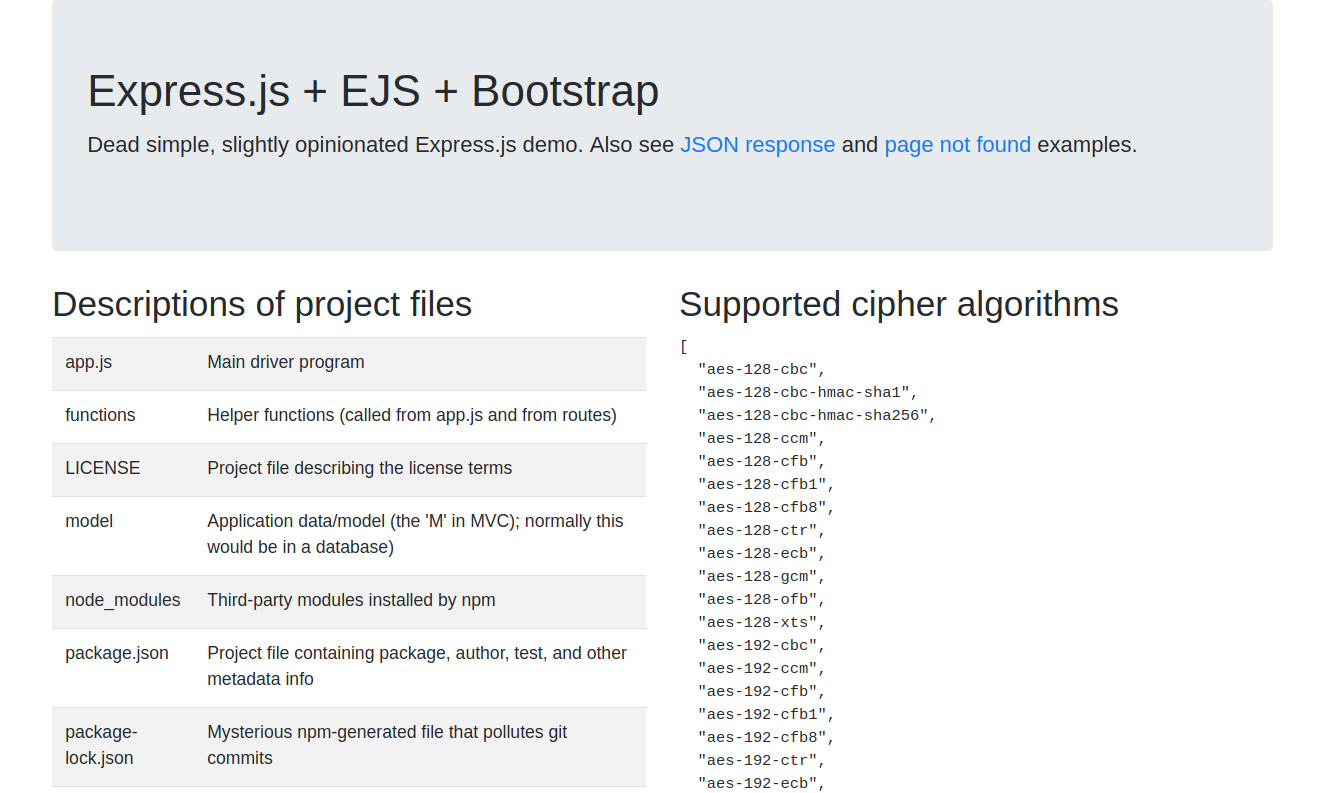
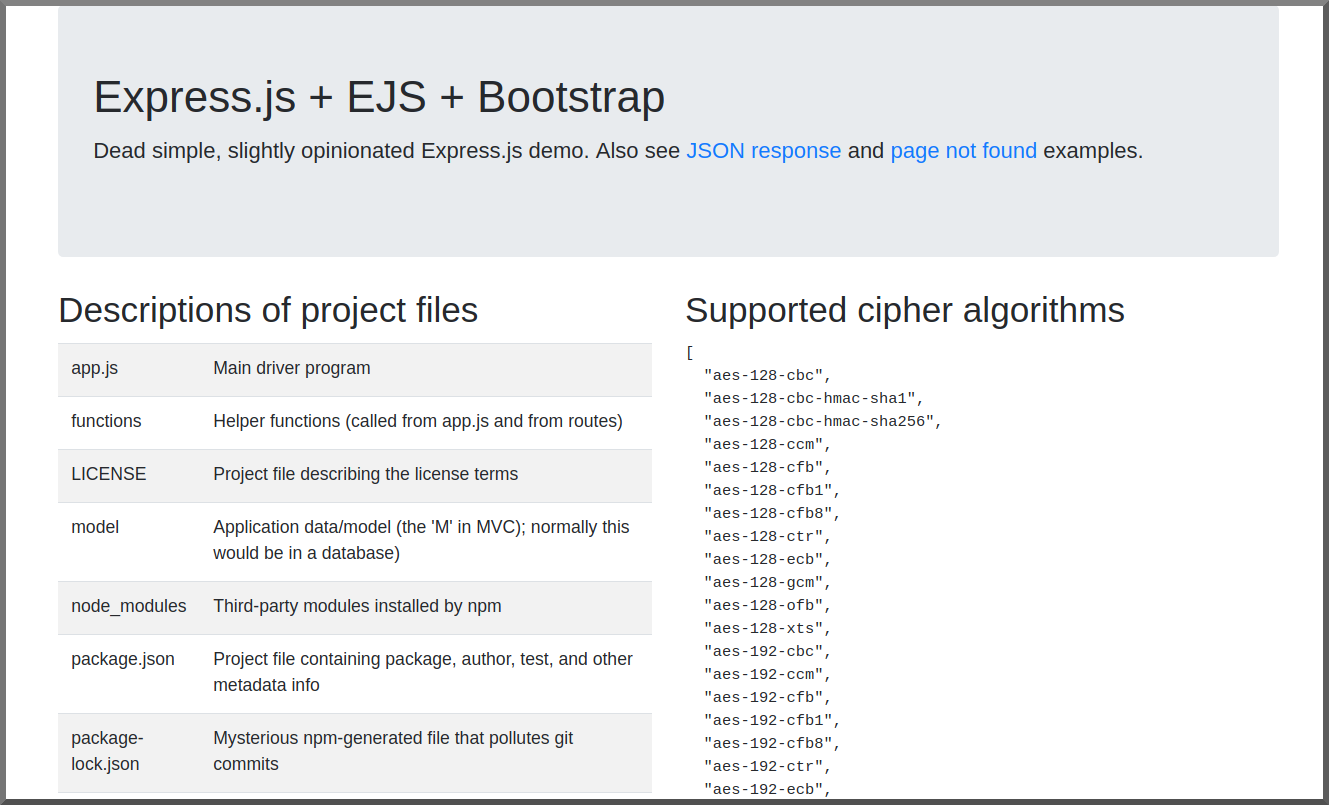
Put border on image, remove horizontal rule
The image looks "real" (with clickable links). Hopefully the
border will clarify that it's just a screenshot.

diff --git a/README.md b/README.md
@@ -6,8 +6,6 @@ Quick and easy look at using [Express.js](https://expressjs.com/) with the [EJS 
 
 ![Screenshot](/README.md-img/index.png?raw=true)
 
----
-
 ## Getting started
 
 After cloning this repo, copy (and change, if you'd like) HTTP listener settings:
